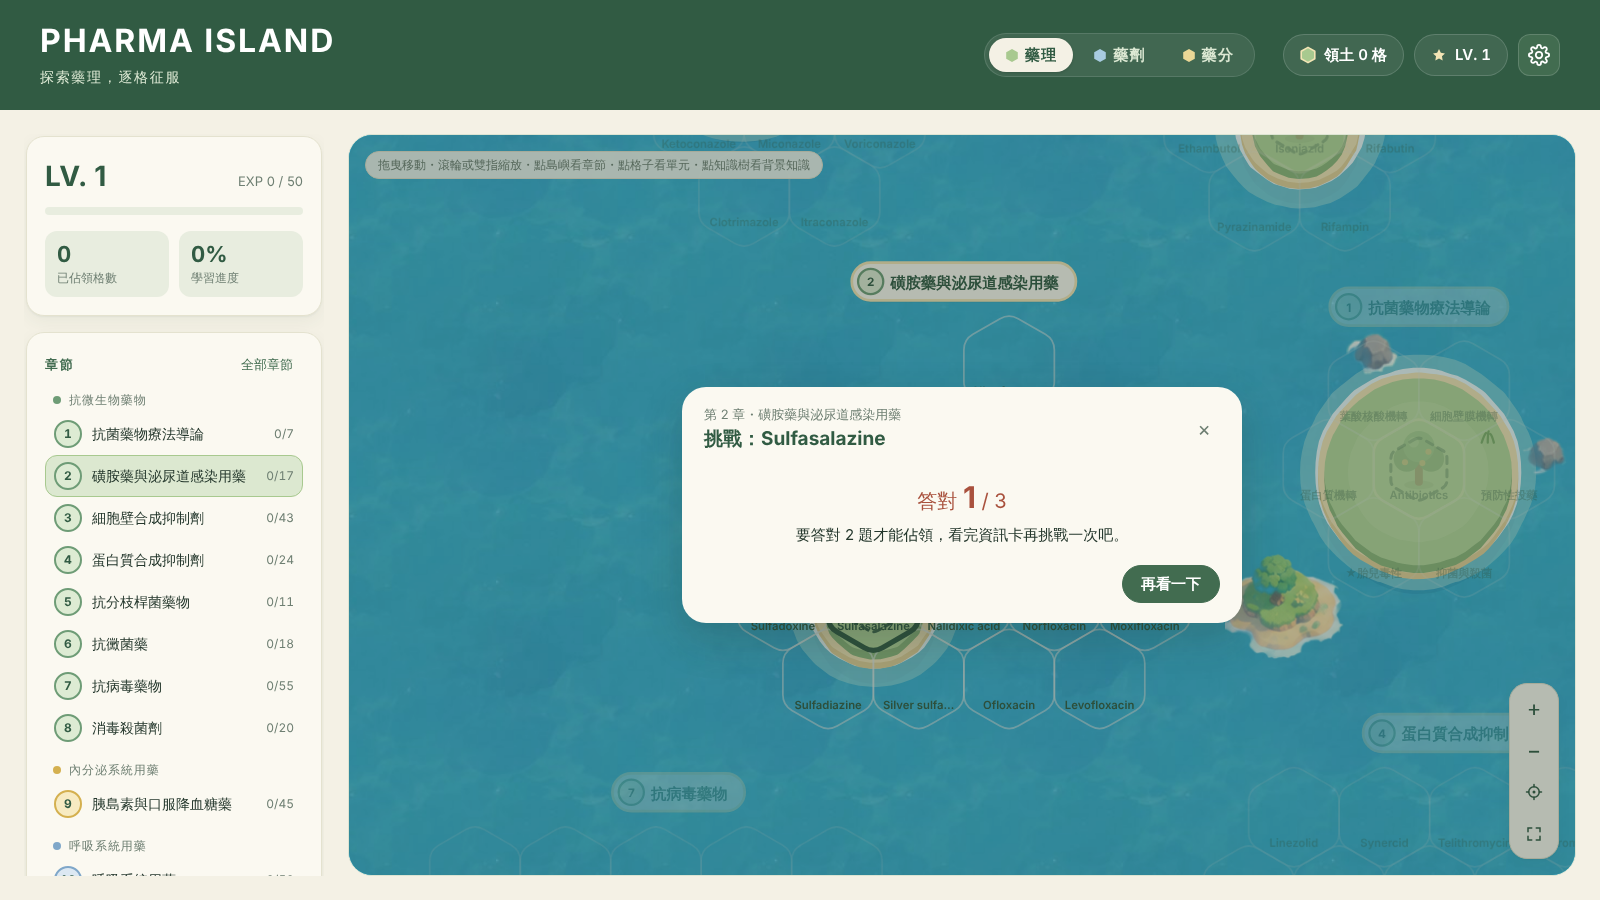
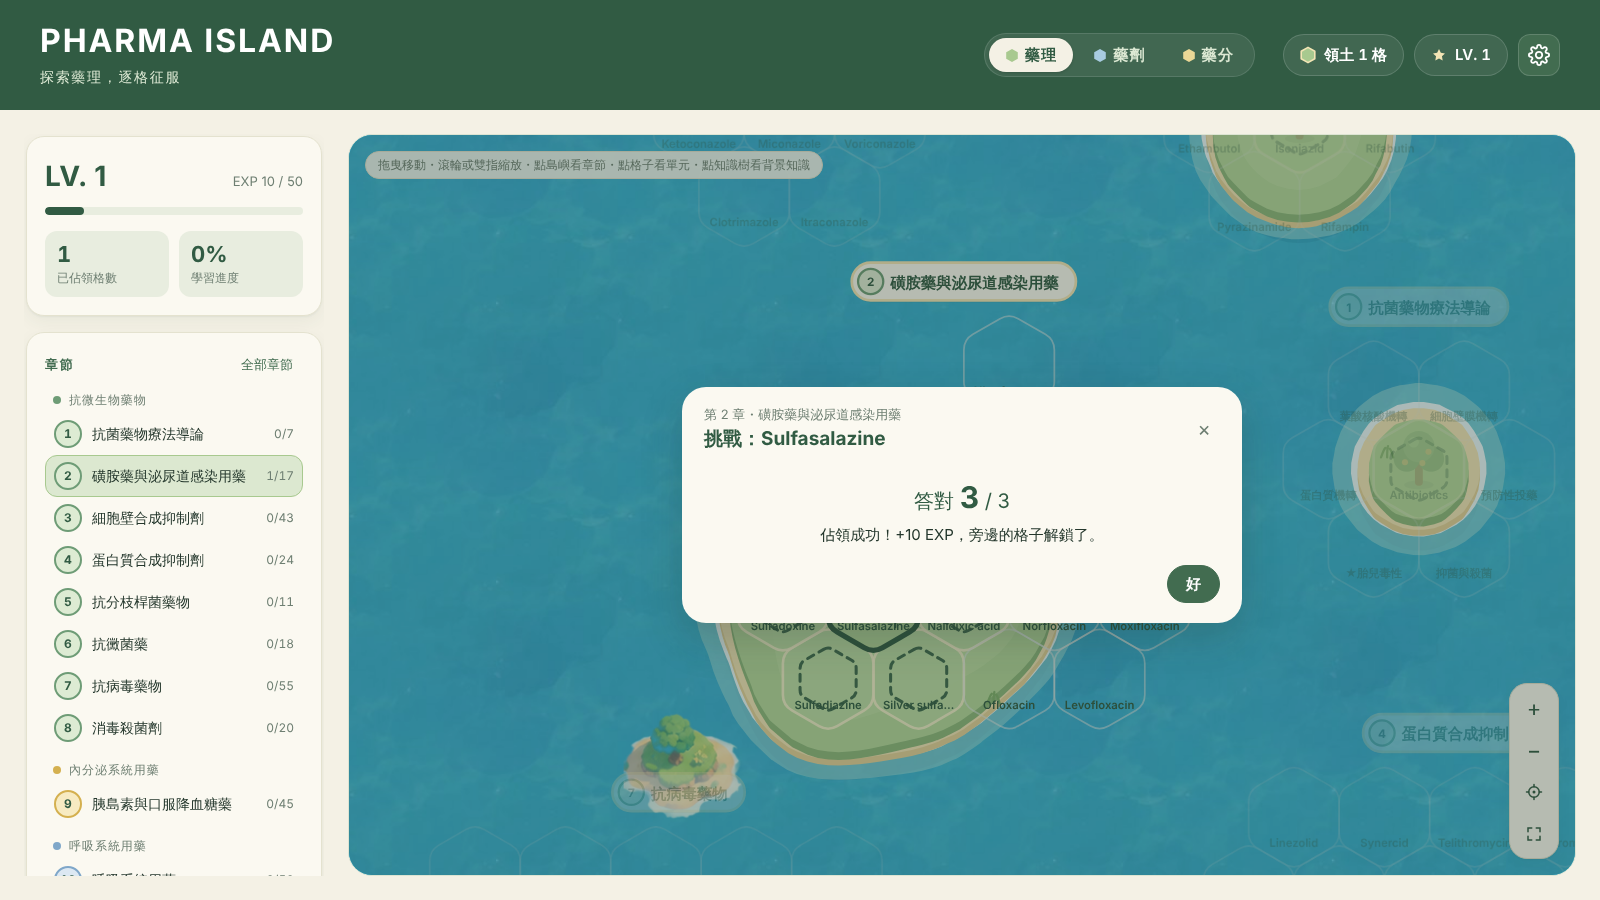
格子上不出認藥題（標題就是藥名），認藥題改放知識樹答題
Claude-Session: https://claude.ai/code/session_01HMuhMbAJ1NvRfWr1as9PpX

diff --git a/js/quiz.js b/js/quiz.js
@@ -2,6 +2,7 @@
    題目全部從資料裡的挖空 {{答案|類型}} 自動產生，不另外寫題庫：
    - 挖空題：一句話挖掉一個答案，錯誤選項從「同類型」的其他答案抽（同一組 > 同一章 > 其他章）。
    - 認藥題：給這個藥「獨有」的一兩句特徵，問是哪一個藥；錯誤選項是同一組／同一章的其他藥。
+     只出現在知識樹答題（格子的標題就是藥名，在格子上出沒有意義）。
    會排除「這個藥本身其他句子也成立」的錯誤選項，避免一題有兩個正確答案。
    挑戰格子：連答 3 題，答對 2 題以上就佔領（題目不到 3 題時要全對）。
    知識樹：每次 5 題；每一題第一次答對 +PI.LEVEL.expPerTreeQuestion EXP。 */
@@ -110,7 +111,7 @@ PI.quiz = (function () {
 
   function forUnit(u, n = 3) {
     if (!bank) build();
-    const qs = [], w = whichQ(u); if (w) qs.push(w);
+    const qs = [];   // 格子上不出認藥題：標題就是藥名，一看就知道
     const lines = shuffle(bank.lines.filter(L => L.owner === `u:${u.id}`));
     // 先每句各出一題，題目不夠再同一句換一個挖空
     for (let round = 0; qs.length < n && round < 4; round++)
@@ -122,6 +123,9 @@ PI.quiz = (function () {
     if (!bank) build();
     const out = [];
     bank.lines.filter(L => L.owner === `t:${key}`).forEach(L => L.p.blanks.forEach((_, k) => { const q = clozeQ(L, k); if (q) out.push(q); }));
+    // 認藥題放在知識樹：這裡看不到藥名，才真的考得到「這是哪個藥」
+    const ch = (PI.KNOWLEDGE[key] || {}).chapter;
+    PI.UNITS.filter(u => u.chapter === ch).forEach(u => { const q = whichQ(u); if (q) out.push(q); });
     return out;
   }
 

diff --git a/pharmaceutics.html b/pharmaceutics.html
@@ -8,7 +8,7 @@
 <link rel="preconnect" href="https://fonts.googleapis.com">
 <link rel="preconnect" href="https://fonts.gstatic.com" crossorigin>
 <link href="https://fonts.googleapis.com/css2?family=Chiron+GoRound+TC:wght@400;500;600;700&display=swap" rel="stylesheet">
-<link rel="stylesheet" href="css/style.css?v=20261023c">
+<link rel="stylesheet" href="css/style.css?v=20261023d">
 </head>
 <body>
 <div class="app">
@@ -115,13 +115,13 @@
   </div>
 </div>
 
-<script src="js/data.js?v=20261023c"></script>
-<script src="js/units.js?v=20261023c"></script>
-<script src="js/knowledge.js?v=20261023c"></script>
-<script src="js/subjects/pharmaceutics.js?v=20261023c"></script>
-<script src="js/state.js?v=20261023c"></script>
-<script src="js/map.js?v=20261023c"></script>
-<script src="js/quiz.js?v=20261023c"></script>
-<script src="js/app.js?v=20261023c"></script>
+<script src="js/data.js?v=20261023d"></script>
+<script src="js/units.js?v=20261023d"></script>
+<script src="js/knowledge.js?v=20261023d"></script>
+<script src="js/subjects/pharmaceutics.js?v=20261023d"></script>
+<script src="js/state.js?v=20261023d"></script>
+<script src="js/map.js?v=20261023d"></script>
+<script src="js/quiz.js?v=20261023d"></script>
+<script src="js/app.js?v=20261023d"></script>
 </body>
 </html>

diff --git a/analysis.html b/analysis.html
@@ -8,7 +8,7 @@
 <link rel="preconnect" href="https://fonts.googleapis.com">
 <link rel="preconnect" href="https://fonts.gstatic.com" crossorigin>
 <link href="https://fonts.googleapis.com/css2?family=Chiron+GoRound+TC:wght@400;500;600;700&display=swap" rel="stylesheet">
-<link rel="stylesheet" href="css/style.css?v=20261023c">
+<link rel="stylesheet" href="css/style.css?v=20261023d">
 </head>
 <body>
 <div class="app">
@@ -115,13 +115,13 @@
   </div>
 </div>
 
-<script src="js/data.js?v=20261023c"></script>
-<script src="js/units.js?v=20261023c"></script>
-<script src="js/knowledge.js?v=20261023c"></script>
-<script src="js/subjects/analysis.js?v=20261023c"></script>
-<script src="js/state.js?v=20261023c"></script>
-<script src="js/map.js?v=20261023c"></script>
-<script src="js/quiz.js?v=20261023c"></script>
-<script src="js/app.js?v=20261023c"></script>
+<script src="js/data.js?v=20261023d"></script>
+<script src="js/units.js?v=20261023d"></script>
+<script src="js/knowledge.js?v=20261023d"></script>
+<script src="js/subjects/analysis.js?v=20261023d"></script>
+<script src="js/state.js?v=20261023d"></script>
+<script src="js/map.js?v=20261023d"></script>
+<script src="js/quiz.js?v=20261023d"></script>
+<script src="js/app.js?v=20261023d"></script>
 </body>
 </html>

diff --git a/index.html b/index.html
@@ -7,7 +7,7 @@
 <link rel="preconnect" href="https://fonts.googleapis.com">
 <link rel="preconnect" href="https://fonts.gstatic.com" crossorigin>
 <link href="https://fonts.googleapis.com/css2?family=Chiron+GoRound+TC:wght@400;500;600;700&display=swap" rel="stylesheet">
-<link rel="stylesheet" href="css/style.css?v=20261023c">
+<link rel="stylesheet" href="css/style.css?v=20261023d">
 </head>
 <body>
 <div class="app">
@@ -114,12 +114,12 @@
   </div>
 </div>
 
-<script src="js/data.js?v=20261023c"></script>
-<script src="js/units.js?v=20261023c"></script>
-<script src="js/knowledge.js?v=20261023c"></script>
-<script src="js/state.js?v=20261023c"></script>
-<script src="js/map.js?v=20261023c"></script>
-<script src="js/quiz.js?v=20261023c"></script>
-<script src="js/app.js?v=20261023c"></script>
+<script src="js/data.js?v=20261023d"></script>
+<script src="js/units.js?v=20261023d"></script>
+<script src="js/knowledge.js?v=20261023d"></script>
+<script src="js/state.js?v=20261023d"></script>
+<script src="js/map.js?v=20261023d"></script>
+<script src="js/quiz.js?v=20261023d"></script>
+<script src="js/app.js?v=20261023d"></script>
 </body>
 </html>

diff --git a/README.md b/README.md
@@ -40,7 +40,7 @@
 題目全部從資料裡的挖空 `{{答案|類型}}` 自動產生，不另外寫題庫。
 - **挖空題**：一句話挖掉一個答案；錯誤選項從同類型的其他答案抽。藥名題優先抽同一組的藥（最難）；疾病、菌種、副作用等優先抽別章的（同章的藥範圍常重疊，避免一題兩個對）。這個藥資料裡已經寫到的詞、和正確答案太像的詞（IV 和 IV/IM）都不會當錯誤選項。
 - **對比組**（`PI.CLOZE_SETS`）：耐酸／不耐酸、可逆／不可逆這類答案，選項只用同組的詞。
-- **認藥題**：給這個藥獨有的一兩句特徵（別的藥沒有一模一樣的句子、也沒寫到藥名），問是哪一個藥。
+- **認藥題**：給這個藥獨有的一兩句特徵（別的藥沒有一模一樣的句子、也沒寫到藥名），問是哪一個藥。只出在知識樹答題；格子的標題就是藥名，所以格子上只出挖空題。
 - **挑戰格子**：點「可挑戰」的格子 →「挑戰這格」，連答 3 題，答對 2 題以上佔領（題目不到 3 題時要全對）。已佔領的格子可以「再練習一次」，不影響進度。
 - **知識樹**：知識面板上方「開始答題」，每次 5 題，先出還沒答對過的；每題第一次答對 +`PI.LEVEL.expPerTreeQuestion` EXP，存在瀏覽器。
 - 答題時資訊卡和知識面板會藏起來；鍵盤 1～4 選答案、Enter 下一題、Esc 關閉。
